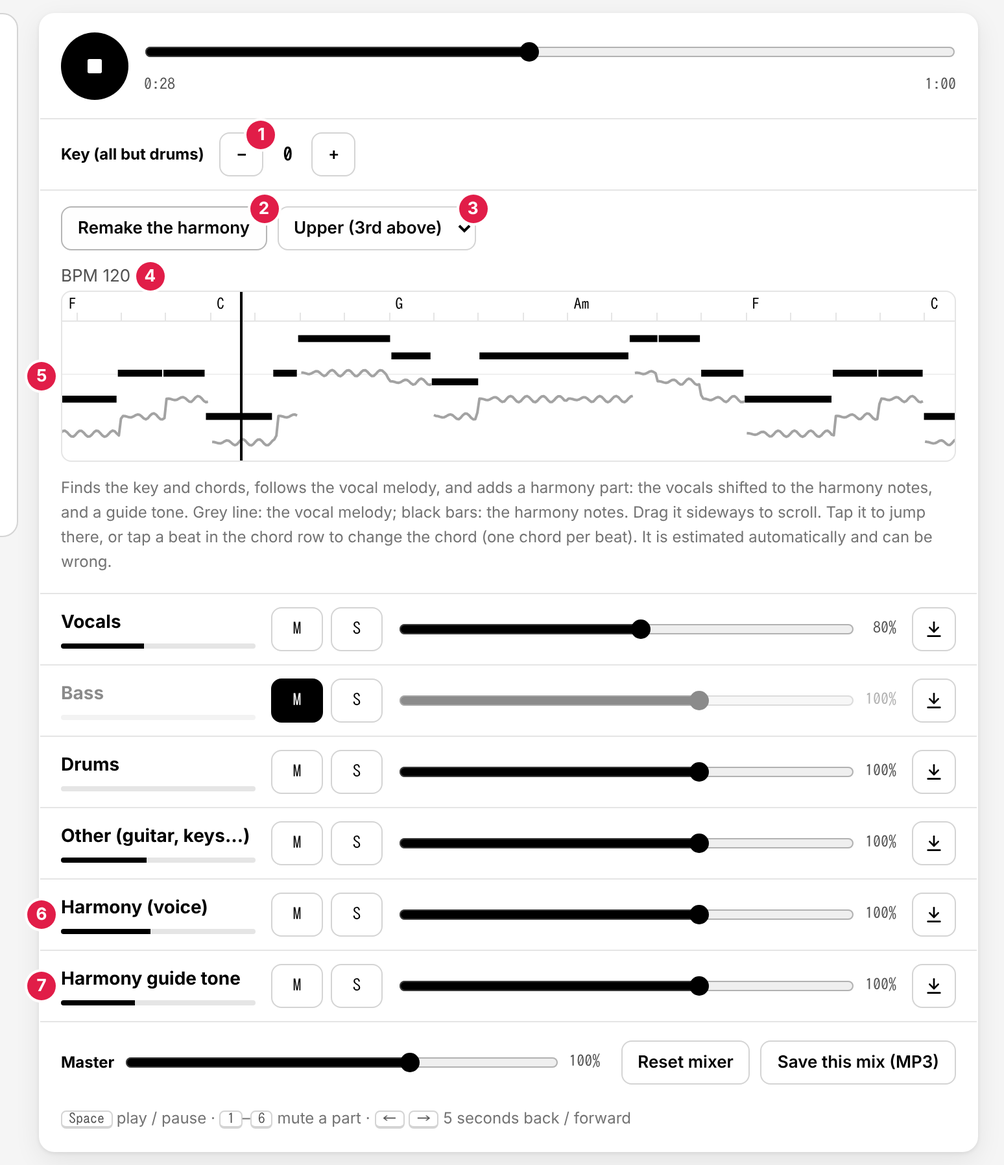
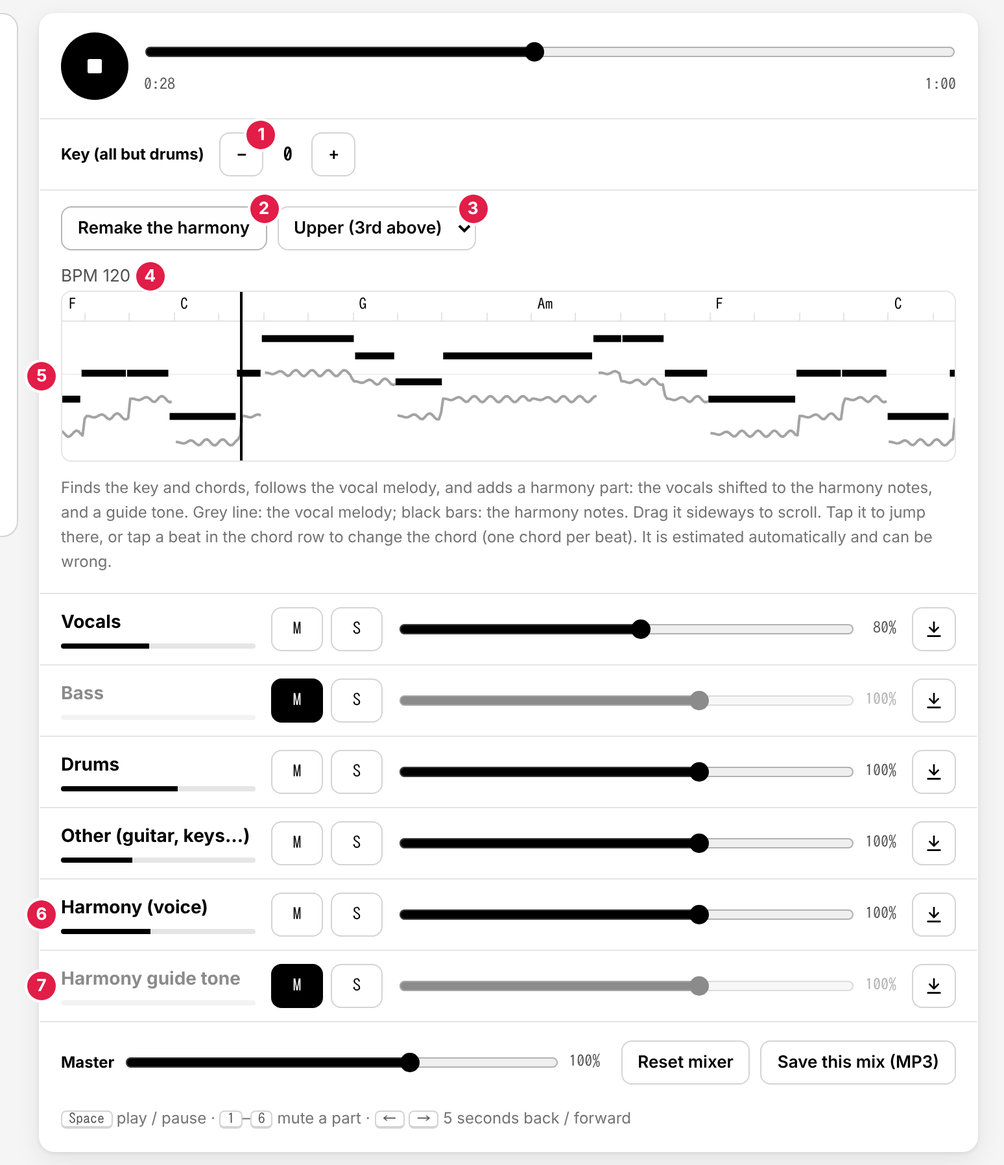
ハモリのガイド音を最初はミュートに、作り直しが必要なときは再生成ボタンを黒に (#9)
* ハモリを作る機能を追加（キー・コード推定、ボーカルの音程とガイド音、ピッチシフトしたハモリの声）

- harmony.js（ワーカー、AI モデル・ライブラリなし）: ベースとその他のクロマから HMM でコードとキー、
  ボーカルを YIN で音程にしてノートに切り、3 度上／下のハモリの音を選ぶ。ガイド音を合成し、
  TD-PSOLA でボーカルの音程を変えたハモリの声を作る
- 画面: 「ハモリを作る」ボタンと上ハモ／下ハモの選択、キー・現在と次のコード、
  コード・旋律・ハモリの音が流れる表示（タップでその位置へ）
- ミキサー: ハモリ（声）とハモリのガイド音を 5・6 本目に追加（再生位置はそのまま）。MP3 保存にも対応
- sw.js・README・CLAUDE.md・アプリ内の使い方を更新し、ガイドの画面写真を撮り直し

Claude-Session: https://claude.ai/code/session_01FBcjAeQ3QT6sh8No2uGm2z

* ハモリを途切れないように：近いノートをフレーズにまとめ、フレーズごとに続けて作る

- 0.3 秒より近いノートは 1 つのフレーズにつなぐ（すき間は真ん中で分ける）。短すぎて落ちたノートや子音・息の穴も埋まる
- ハモリの声：ノートごとのフェードをやめ、フレーズを 1 つの音としてピッチシフト。音程の変化は境目で 40 ms かけて移り、子音とフレーズの前後 60 ms も含める
- ガイド音：フレーズ内は 1 つの発振器でレガート。新しい音の頭だけ少し強くする
- テスト曲に 80 ms の子音を入れた場合、歌っている間に無音になる 10 ms の区間が 121 → 38（残りは入れた子音の中だけ）

Claude-Session: https://claude.ai/code/session_01FBcjAeQ3QT6sh8No2uGm2z

* 5 度のハモリ、キーチェンジ（±12、ドラム以外）、コード編集。ボタン名を「コード推定＆ハモリ生成」に

- ハモリ: 上ハモ／下ハモの 5 度を追加（7 半音、合わないときは 6 / 8）。コードの種類に 7・maj7・m7・dim・sus4 を追加
- キーチェンジ: keyshift.js（新規ワーカー、パートごとに並行）のフェーズボコーダーで、ベース・その他・ボーカルを
  ±12 半音まで変える（テンポはそのまま）。コード名・キー・表示も移し、ハモリの声とガイド音は新しいキーで作り直す。
  キーを変えたパートの MP3 はファイル名にキーを入れる
- コード編集: コード名（表示の上の段か、いま鳴っているコード）をタップして、ルート・種類を変えたり、再生位置で分けたりする。
  「コード推定＆ハモリ生成」は 2 回目から、編集したコードと前回の旋律を使う。「推定したコードに戻す」で元に戻せる
- ボタン名を「コード推定＆ハモリ生成」に。README・CLAUDE.md・アプリ内の使い方を更新し、ガイドの画面写真を撮り直し

Claude-Session: https://claude.ai/code/session_01FBcjAeQ3QT6sh8No2uGm2z

* ハモリを作ったあとはボタンを「ハモリを再生成」に

- 一度ハモリを作るとボタン名が「ハモリを再生成」に変わる（別の曲を分離すると「コード推定＆ハモリ生成」に戻る）
[…]

diff --git a/public/bandstemmixer/ja/harmony/index.html b/public/bandstemmixer/ja/harmony/index.html
@@ -198,7 +198,7 @@
   <li>ボタンの横で<b>パートを選びます</b>。上ハモ（3 度上）・下ハモ（3 度下）・5 度上・5 度下から選べます。</li>
   <li><b>「コード推定＆ハモリ生成」を押します。</b>曲と端末によって、数秒から 1 分ほどかかります。その間も再生は止まりません。</li>
 </ol>
-<p>処理はすべてブラウザの中で行い、AI モデルもダウンロードも使いません。一度作るとボタンは<b>「ハモリを再生成」</b>に変わり、推定したコードと旋律を使い回すので、2 回目からは速く終わります。パートやコードを変えたあとに押してください。</p>
+<p>処理はすべてブラウザの中で行い、AI モデルもダウンロードも使いません。一度作るとボタンは<b>「ハモリを再生成」</b>に変わり、推定したコードと旋律を使い回すので、2 回目からは速く終わります。パートやコードを変えたあとに押してください。作り直しが必要なときは、ボタンが黒くなります。</p>
 
 <h2 id="screen">画面の見方</h2>
 <figure class="shot">
@@ -212,7 +212,7 @@
   <li><b>BPM</b> – 曲から推定したテンポ。コードはこの拍の上で切り替わります。</li>
   <li><b>表示</b> – 上の段にコード名（拍ごとに小さな目盛り）、<b>灰色の線</b>がボーカルの音程、<b>黒い帯</b>がハモリの音、黒い縦線が再生位置です。横にドラッグ（または横スワイプ・Shift＋ホイール）すると前後を見られ、タップするとその位置に移ります。再生を始めると、再生位置に戻ります。</li>
   <li><b>ハモリ（声）</b> – 分離したボーカルを、ハモリの音程に変えたもの。歌い手のビブラートや歌詞が残るので、もう一人が歌っているように聞こえます。</li>
-  <li><b>ハモリのガイド音</b> – 同じ音を、揺れのない単純な音で鳴らします。音程が正確なので、いちばん合わせやすい音です。</li>
+  <li><b>ハモリのガイド音</b> – 同じ音を、揺れのない単純な音で鳴らします。音程が正確なので、いちばん合わせやすい音です。最初はミュートになっているので、聞くときは M を押します。</li>
 </ol>
 <p>増えた 2 つのパートにも、ほかのパートと同じく M・S・フェーダーと、MP3 で保存する ↓ ボタンがあります。</p>
 
@@ -232,7 +232,7 @@
 <h2 id="practice">4 ステップの練習法</h2>
 <ol>
   <li><b>聞く</b> – ガイド音だけをソロ（S）にして、ハモリを何度か聞きます。次にボーカルも S にして、2 つの線の重なり方を聞きます。</li>
-  <li><b>ガイドと一緒に歌う</b> – ボーカルとガイド音を鳴らしたまま、ガイドに合わせてハモリを歌います。ハモリ（声）は、まずはミュート（M）しておきます。</li>
+  <li><b>ガイドと一緒に歌う</b> – ガイド音の M を押してミュートを外し（最初はミュート）、ボーカルとガイド音を鳴らしたまま、ガイドに合わせてハモリを歌います。ハモリ（声）は、まずはミュート（M）しておきます。</li>
   <li><b>助けを減らす</b> – ガイド音を 60%、30% と少しずつ下げ、主旋律に対して自分でハモリを保てるようにします。</li>
   <li><b>一人で歌う</b> – ガイド音とハモリ（声）をミュートし、主旋律とバンドに対してハモリを歌います。確かめたいときは、ハモリ（声）を少しだけ戻します。</li>
 </ol>

diff --git a/public/bandstemmixer/index.html b/public/bandstemmixer/index.html
@@ -529,7 +529,7 @@
           "master": "Master",
           "mix.reset": "Reset mixer",
           "mix.save": "Save this mix (MP3)",
-          "mix.reset.done": "All parts back to 100%, unmuted.",
+          "mix.reset.done": "All parts back to 100%, unmuted (the guide tone muted).",
           "mute": "Mute {name}",
           "solo": "Solo {name}",
           "volume": "{name} volume",
@@ -672,7 +672,7 @@
           "master": "全体",
           "mix.reset": "ミキサーを元に戻す",
           "mix.save": "このミックスを保存（MP3）",
-          "mix.reset.done": "すべてのパートを 100%・ミュートなしに戻しました。",
+          "mix.reset.done": "すべてのパートを 100%・ミュートなし（ガイド音はミュート）に戻しました。",
           "mute": "{name}をミュート",
           "solo": "{name}をソロ",
           "volume": "{name}の音量",
@@ -843,20 +843,23 @@
       // ---------- Saved state ----------
       // Mixer settings only. Solo is not restored (a part left on solo would silence the others without notice).
       const STATE_KEY = "bandstemmixer-state";
+      // The harmony guide tone starts muted (the harmony voice is usually what you want to hear first)
       function freshState() {
         const parts = {};
-        ALL.forEach(function (p) { parts[p.key] = { vol: 1, mute: false }; });
-        return { v: 1, master: 1, parts: parts };
+        ALL.forEach(function (p) { parts[p.key] = { vol: 1, mute: p.key === "guide" }; });
+        return { v: 2, master: 1, parts: parts };
       }
       const clampVol = (v, max) => (typeof v === "number" && isFinite(v) ? Math.max(0, Math.min(max, v)) : 1);
       let store = (function () {
         const s = freshState();
         try {
           const o = JSON.parse(localStorage.getItem(STATE_KEY) || "null");
-          if (o && o.v === 1) {
+          // v1 (before the guide tone started muted): everything but the guide tone carries over
+          if (o && (o.v === 1 || o.v === 2)) {
             s.master = clampVol(o.master, 1.5);
             ALL.forEach(function (p) {
               const x = o.parts && o.parts[p.key];
+              if (o.v === 1 && p.key === "guide") return;
               if (x) s.parts[p.key] = { vol: clampVol(x.vol, 1.5), mute: x.mute === true };
             });
           }
@@ -1722,6 +1725,11 @@
       function renderHarm() {
         // Once made, the button remakes the harmony from the chords on screen (estimated or edited)
         $("harmBtn").textContent = t(harm ? "harm.regen" : "harm.run");
+        // Black (like the other main buttons) when the harmony no longer matches what is on screen: the chords
+        // were edited, or another part (3rd / 5th, above / below) was chosen
+        const set = harmSettings();
+        const regen = !!harm && (harm.stale || set.dir !== harm.dir || set.interval !== harm.interval);
+        $("harmBtn").className = regen ? "primary" : "chip";
         if (!harm) return;
         $("bpmVal").textContent = harm.bpm ? t("harm.bpm", { bpm: Math.round(harm.bpm) }) : t("harm.noBeat");
         $("chordsNote").hidden = !harm.stale && !harm.edited;
@@ -1740,6 +1748,7 @@
       }
       $("keyDown").addEventListener("click", function () { changeKey(semis - 1); });
       $("keyUp").addEventListener("click", function () { changeKey(semis + 1); });
+      $("harmDir").addEventListener("change", renderHarm);
       $("harmBtn").addEventListener("click", function () {
         if (!orig) return;
         wantHarm = true;

diff --git a/public/bandstemmixer/ja/index.html b/public/bandstemmixer/ja/index.html
@@ -525,7 +525,7 @@
           "master": "Master",
           "mix.reset": "Reset mixer",
           "mix.save": "Save this mix (MP3)",
-          "mix.reset.done": "All parts back to 100%, unmuted.",
+          "mix.reset.done": "All parts back to 100%, unmuted (the guide tone muted).",
           "mute": "Mute {name}",
           "solo": "Solo {name}",
           "volume": "{name} volume",
@@ -668,7 +668,7 @@
           "master": "全体",
           "mix.reset": "ミキサーを元に戻す",
           "mix.save": "このミックスを保存（MP3）",
-          "mix.reset.done": "すべてのパートを 100%・ミュートなしに戻しました。",
+          "mix.reset.done": "すべてのパートを 100%・ミュートなし（ガイド音はミュート）に戻しました。",
           "mute": "{name}をミュート",
           "solo": "{name}をソロ",
           "volume": "{name}の音量",
@@ -839,20 +839,23 @@
       // ---------- Saved state ----------
       // Mixer settings only. Solo is not restored (a part left on solo would silence the others without notice).
       const STATE_KEY = "bandstemmixer-state";
+      // The harmony guide tone starts muted (the harmony voice is usually what you want to hear first)
       function freshState() {
         const parts = {};
-        ALL.forEach(function (p) { parts[p.key] = { vol: 1, mute: false }; });
-        return { v: 1, master: 1, parts: parts };
+        ALL.forEach(function (p) { parts[p.key] = { vol: 1, mute: p.key === "guide" }; });
+        return { v: 2, master: 1, parts: parts };
       }
       const clampVol = (v, max) => (typeof v === "number" && isFinite(v) ? Math.max(0, Math.min(max, v)) : 1);
       let store = (function () {
         const s = freshState();
         try {
           const o = JSON.parse(localStorage.getItem(STATE_KEY) || "null");
-          if (o && o.v === 1) {
+          // v1 (before the guide tone started muted): everything but the guide tone carries over
+          if (o && (o.v === 1 || o.v === 2)) {
             s.master = clampVol(o.master, 1.5);
             ALL.forEach(function (p) {
               const x = o.parts && o.parts[p.key];
+              if (o.v === 1 && p.key === "guide") return;
               if (x) s.parts[p.key] = { vol: clampVol(x.vol, 1.5), mute: x.mute === true };
             });
           }
@@ -1718,6 +1721,11 @@
       function renderHarm() {
         // Once made, the button remakes the harmony from the chords on screen (estimated or edited)
         $("harmBtn").textContent = t(harm ? "harm.regen" : "harm.run");
+        // Black (like the other main buttons) when the harmony no longer matches what is on screen: the chords
+        // were edited, or another part (3rd / 5th, above / below) was chosen
+        const set = harmSettings();
+        const regen = !!harm && (harm.stale || set.dir !== harm.dir || set.interval !== harm.interval);
+        $("harmBtn").className = regen ? "primary" : "chip";
         if (!harm) return;
         $("bpmVal").textContent = harm.bpm ? t("harm.bpm", { bpm: Math.round(harm.bpm) }) : t("harm.noBeat");
         $("chordsNote").hidden = !harm.stale && !harm.edited;
@@ -1736,6 +1744,7 @@
       }
       $("keyDown").addEventListener("click", function () { changeKey(semis - 1); });
       $("keyUp").addEventListener("click", function () { changeKey(semis + 1); });
+      $("harmDir").addEventListener("change", renderHarm);
       $("harmBtn").addEventListener("click", function () {
         if (!orig) return;
         wantHarm = true;

diff --git a/public/bandstemmixer/harmony/index.html b/public/bandstemmixer/harmony/index.html
@@ -198,7 +198,7 @@
   <li><b>Choose the part</b> next to the button: upper (a 3rd above), lower (a 3rd below), or a 5th above or below.</li>
   <li><b>Press “Find chords &amp; make harmony”.</b> It takes from a few seconds to about a minute, depending on the song and the device. Playback goes on while it works.</li>
 </ol>
-<p>Everything is worked out in your browser, without the AI model or any download. After the first time the button becomes <b>“Remake the harmony”</b>: it reuses the chords and the melody it already found, so it is quicker. Use it after you change the part or the chords.</p>
+<p>Everything is worked out in your browser, without the AI model or any download. After the first time the button becomes <b>“Remake the harmony”</b>: it reuses the chords and the melody it already found, so it is quicker. Use it after you change the part or the chords: the button turns black when the harmony no longer matches them.</p>
 
 <h2 id="screen">Reading the screen</h2>
 <figure class="shot">
@@ -212,7 +212,7 @@
   <li><b>BPM</b> – The tempo found in the song. The chords change on its beats.</li>
   <li><b>The roll</b> – The chord names on top, with a small tick at every beat; the vocal melody as a <b>grey line</b>; the harmony notes as <b>black bars</b>; the black vertical line is the play position. Drag it sideways (or use a sideways swipe or Shift + wheel) to look ahead or back; tap it to jump there. It follows the playback again when you press play.</li>
   <li><b>Harmony (voice)</b> – The separated vocals moved to the harmony notes. It keeps the singer's vibrato and words, so it sounds like a second singer.</li>
-  <li><b>Harmony guide tone</b> – The same notes as a plain, steady tone. The pitch is exact, which makes it the easiest to sing along to.</li>
+  <li><b>Harmony guide tone</b> – The same notes as a plain, steady tone. The pitch is exact, which makes it the easiest to sing along to. It starts muted; press its M to hear it.</li>
 </ol>
 <p>Both new parts have M, S, a fader, and the ↓ button to save them as MP3 files, like the other parts.</p>
 
@@ -232,7 +232,7 @@
 <h2 id="practice">A practice plan in four steps</h2>
 <ol>
   <li><b>Listen.</b> Solo the guide tone (S) and listen to the harmony on its own a few times. Then add the vocals (S on both) to hear how the two lines fit.</li>
-  <li><b>Sing with the guide.</b> Keep the vocals and the guide tone on, and sing the harmony along with the guide. Turn the harmony voice off (M) for now.</li>
+  <li><b>Sing with the guide.</b> Turn the guide tone on (its M; it starts muted) and keep the vocals on, and sing the harmony along with the guide. Turn the harmony voice off (M) for now.</li>
   <li><b>Lower the help.</b> Turn the guide tone down step by step — 60%, 30% — until you are carrying the harmony yourself against the lead vocal.</li>
   <li><b>Sing it alone.</b> Mute the guide tone and the harmony voice and sing the harmony against the lead and the band. To check yourself, unmute the harmony voice for a moment.</li>
 </ol>

diff --git a/public/bandstemmixer/ja/guide/index.html b/public/bandstemmixer/ja/guide/index.html
@@ -243,7 +243,7 @@
   <li><b>フェーダー</b> – パートの音量（0〜150%）。</li>
   <li><b>↓（パートを保存）</b> – そのパートだけを MP3 ファイルで保存します。</li>
   <li><b>全体</b> – ミックス全体の音量。</li>
-  <li><b>ミキサーを元に戻す</b> – すべてのパートを 100%・ミュートなしに戻します。</li>
+  <li><b>ミキサーを元に戻す</b> – すべてのパートを 100%・ミュートなしに戻します（ハモリのガイド音はミュートに戻します）。</li>
   <li><b>このミックスを保存（MP3）</b> – いま聞こえている音を 1 つの MP3 ファイルで保存します。</li>
 </ol>
 <p>フェーダー・M・全体の音量は次回も残ります。S は残らないので、うっかりソロのまま始まることはありません。</p>
@@ -262,7 +262,7 @@
   <li><b>BPM</b> – 曲から推定したテンポ。</li>
   <li><b>表示</b> – 上の段にコード名（拍をタップするとコードを変えられます）、灰色の線がボーカルの音程、黒い帯がハモリの音。横にドラッグすると先を見られ、タップするとその位置に移ります。</li>
   <li><b>ハモリ（声）</b> – ボーカルをハモリの音程に変えたもの。</li>
-  <li><b>ハモリのガイド音</b> – 同じ音を単純な音で鳴らしたもの。</li>
+  <li><b>ハモリのガイド音</b> – 同じ音を単純な音で鳴らしたもの。最初はミュートなので、聞くときは M を押します。</li>
 </ol>
 <p>これらはすべて、AI モデルを使わずにブラウザの中で処理します。詳しくは<a href="../harmony/">ハモリの練習</a>と<a href="../chords-and-key/">コード表示とキー変更</a>をご覧ください。</p>
 

diff --git a/public/bandstemmixer/guide/index.html b/public/bandstemmixer/guide/index.html
@@ -243,7 +243,7 @@
   <li><b>Fader</b> – The volume of the part, from 0% to 150%.</li>
   <li><b>↓ (save the part)</b> – Saves that part alone as an MP3 file.</li>
   <li><b>Master</b> – The volume of the whole mix.</li>
-  <li><b>Reset mixer</b> – Puts every part back to 100% and unmuted.</li>
+  <li><b>Reset mixer</b> – Puts every part back to 100% and unmuted (the harmony guide tone back to muted).</li>
   <li><b>Save this mix (MP3)</b> – Saves what you hear now as one MP3 file.</li>
 </ol>
 <p>The faders, M, and the master volume are remembered for next time; S is not, so you never start in solo by mistake.</p>
@@ -262,7 +262,7 @@
   <li><b>BPM</b> – the tempo found in the song.</li>
   <li><b>The view</b> – chord names on top (tap a beat there to change the chord), the vocal melody as a grey line, and the harmony notes as black bars. Drag it sideways to look ahead; tap it to jump there.</li>
   <li><b>Harmony (voice)</b> – the vocals moved to the harmony notes.</li>
-  <li><b>Harmony guide tone</b> – the same notes as a plain tone.</li>
+  <li><b>Harmony guide tone</b> – the same notes as a plain tone. It starts muted; press its M to hear it.</li>
 </ol>
 <p>All of this runs in your browser without the AI model. For more, see <a href="../harmony/">practicing harmonies</a> and <a href="../chords-and-key/">chords and key change</a>.</p>
 

diff --git a/CLAUDE.md b/CLAUDE.md
@@ -28,9 +28,9 @@
 - 大きなダウンロードの前の確認（Wi-Fi でないときのダイアログ）は `index.html` の `connectionRisk()`・`askNetwork()`。モデルがキャッシュ済みなら出さない。ダウンロード量の表示は `MODEL_MB`・`ENGINE_MB`。
 - ページはクロスオリジン分離（`public/_headers` の COOP / COEP require-corp）。ONNX Runtime の複数スレッドと、分離結果を `SharedArrayBuffer` でプレーヤーと共有するのに必要。外部から読むファイルは CORS で読む（`<script type="module">`・`fetch`・`import()`）。CORS でない読み込み（`<img>` の外部画像など）を足すと COEP でブロックされる。
 - 外部ホストを足したら `public/_headers` の CSP と、プライバシーの説明（`scripts/pages/privacy.mjs`、アプリ内の `privacy.body`、README）を同じ PR で直す。
-- ハモリは `harmony.js`（ワーカー）。AI モデルもライブラリも使わない自前の JavaScript：まず 4 パートの和（曲全体）から拍とテンポ（`detectBeats()`。Loop Trainer（ktkwmr/LoopTrainer、MIT、同じ作者）の `detectBeats()` から小節の頭の推定を除いて移したもの。`BEAT_BIAS` も同じ値）を出し、拍ごとのマス（`makeGrid()`、4 分音符。拍が見つからないときは 0.5 秒ごと）を作る。「ベース」「その他」のクロマ（12 音の強さ）をマスごとに足して長三和音・短三和音と照合し、拍ごとに HMM（Viterbi）でならしてコード、Krumhansl のプロファイルと主和音の長さでキー、ボーカルを YIN で音程にしてノートに切り、各ノートにキーの中の 3 度か 5 度上（下）を、コードとぶつかるときはコードの音に寄せて選ぶ（コードの種類は `CHORD_TYPES`。推定はメジャー・マイナーだけ、7th・add9・dim7・m7b5・aug などは編集で付く）。ページはコードを拍ごとのマス（`harm.cells`、`harm.grid`）で持ち、編集はマス単位（その拍から何拍分か）。ノーコードは空白で表示する。キーは曲全体で 1 つ（転調には対応しない）なので画面には出さず、ハモリの音選びにだけ使う。表示は BPM・コード（上の段の名前と拍の目盛り）・旋律・ハモリの音だけ（いま・次のコードの表示、コードの境目の縦線はなし）。ピアノロールは横ドラッグ・横ホイールでスクロールでき（`viewStart`）、再生開始・シークで再生位置に戻る。一度作るとボタンは「ハモリを再生成」（`harm.regen`）になり、ページが持っているコード（編集したもの）と旋律を渡して使い回す（コードの推定と音程の追跡をやり直さない）。コードを編集しても自動では作り直さず、案内（`chords.stale`）を出す。0.3 秒より近いノートは 1 つのフレーズにつなぎ（すき間は真ん中で分ける）、フレーズごとに途切れない音として作る（音程の変化はノートの境目で 40 ms かけて移る）。ハモリの声は TD-PSOLA でボーカルの音程を変えたもの（フレーズの前後 60 ms と、フレーズ内の子音・息も含める）、ガイド音は単純な合成音（フレーズ内はレガート）。どちらもモノラル（L と R に同じ配列）で、ミキサーの 5・6 本目（`HARM`）に足す。分析は 11025 Hz（4 分の 1 に間引き）。作り直し・分離し直しで置き換え、保存はしない。
+- ハモリは `harmony.js`（ワーカー）。AI モデルもライブラリも使わない自前の JavaScript：まず 4 パートの和（曲全体）から拍とテンポ（`detectBeats()`。Loop Trainer（ktkwmr/LoopTrainer、MIT、同じ作者）の `detectBeats()` から小節の頭の推定を除いて移したもの。`BEAT_BIAS` も同じ値）を出し、拍ごとのマス（`makeGrid()`、4 分音符。拍が見つからないときは 0.5 秒ごと）を作る。「ベース」「その他」のクロマ（12 音の強さ）をマスごとに足して長三和音・短三和音と照合し、拍ごとに HMM（Viterbi）でならしてコード、Krumhansl のプロファイルと主和音の長さでキー、ボーカルを YIN で音程にしてノートに切り、各ノートにキーの中の 3 度か 5 度上（下）を、コードとぶつかるときはコードの音に寄せて選ぶ（コードの種類は `CHORD_TYPES`。推定はメジャー・マイナーだけ、7th・add9・dim7・m7b5・aug などは編集で付く）。ページはコードを拍ごとのマス（`harm.cells`、`harm.grid`）で持ち、編集はマス単位（その拍から何拍分か）。ノーコードは空白で表示する。キーは曲全体で 1 つ（転調には対応しない）なので画面には出さず、ハモリの音選びにだけ使う。表示は BPM・コード（上の段の名前と拍の目盛り）・旋律・ハモリの音だけ（いま・次のコードの表示、コードの境目の縦線はなし）。ピアノロールは横ドラッグ・横ホイールでスクロールでき（`viewStart`）、再生開始・シークで再生位置に戻る。一度作るとボタンは「ハモリを再生成」（`harm.regen`）になり、ページが持っているコード（編集したもの）と旋律を渡して使い回す（コードの推定と音程の追跡をやり直さない）。コードを編集しても自動では作り直さず、案内（`chords.stale`）を出す。コードを編集したときと、作ったあとでパート（3 度・5 度、上・下）を変えたときは、ボタンを黒（`primary`）にする（`renderHarm()`）。0.3 秒より近いノートは 1 つのフレーズにつなぎ（すき間は真ん中で分ける）、フレーズごとに途切れない音として作る（音程の変化はノートの境目で 40 ms かけて移る）。ハモリの声は TD-PSOLA でボーカルの音程を変えたもの（フレーズの前後 60 ms と、フレーズ内の子音・息も含める）、ガイド音は単純な合成音（フレーズ内はレガート）。どちらもモノラル（L と R に同じ配列）で、ミキサーの 5・6 本目（`HARM`）に足す。分析は 11025 Hz（4 分の 1 に間引き）。作り直し・分離し直しで置き換え、保存はしない。
 - キーチェンジは `keyshift.js`（ワーカー、パートごとに 1 つ並行）。フェーズボコーダー（ピークの位相固定）で時間を伸ばしてから元の長さに戻す。ベースは FFT 4096、ほかは 2048。ドラムは変えない。ページは分離したままのパート（`orig`）と、ハモリ・コードを原曲のキーで持ち、キーの変化（`semis`）は音・コード名・表示にだけかける。ハモリの声とガイド音は、キーを変えるたびに `harmony.js` で作り直す（ハモリの音程 + キーの変化を一度にずらす）。`keyshift.js` を変えたら、テスト曲を ±n 半音ずらして、コード推定と旋律がちょうど n ずれ、音量が変わらないことを確かめる。`harmony.js` を変えたら、`scripts/guide-song.mjs` の曲で、コード（Am F C G）・旋律・ハモリの声の音程が合うことを確かめる。
-- ミキサーの設定は `localStorage` の `bandstemmixer-state`（各パートの音量・ミュート（ハモリの 2 本も）、全体の音量）。分離の設定は端末ごとに順に試す（`index.html` の `MODES`・`LADDER`）。PC は full（WebGPU があれば GPU、CPU は多スレッド）→ cpu。スマホとメモリ 4 GB 以下の端末は gpu（GPU・メモリ節約）→ cpu（2 スレッド）→ cpu1（1 スレッド）。iPhone の Safari では GPU の作業メモリはタブではなく GPU プロセスが持つので、タブの上限（htdemucs は 1 区間で約 1 GB 使う）に触れにくい。エラーなら同じ分離の中で次の設定に移り、タブごと落ちたら（`bandstemmixer-running` の記録が残る）次に開いたときに `bandstemmixer-crashed` に覚えて、その設定を 30 日飛ばす。ソロは保存しない。分離したパートは保存しない。
+- ミキサーの設定は `localStorage` の `bandstemmixer-state`（各パートの音量・ミュート（ハモリの 2 本も）、全体の音量。`v: 2`。ハモリのガイド音は最初ミュート（`freshState()`）。`v: 1` の保存はガイド音以外を引き継ぐ）。分離の設定は端末ごとに順に試す（`index.html` の `MODES`・`LADDER`）。PC は full（WebGPU があれば GPU、CPU は多スレッド）→ cpu。スマホとメモリ 4 GB 以下の端末は gpu（GPU・メモリ節約）→ cpu（2 スレッド）→ cpu1（1 スレッド）。iPhone の Safari では GPU の作業メモリはタブではなく GPU プロセスが持つので、タブの上限（htdemucs は 1 区間で約 1 GB 使う）に触れにくい。エラーなら同じ分離の中で次の設定に移り、タブごと落ちたら（`bandstemmixer-running` の記録が残る）次に開いたときに `bandstemmixer-crashed` に覚えて、その設定を 30 日飛ばす。ソロは保存しない。分離したパートは保存しない。
 - 記事は `scripts/pages/<slug>.mjs`（`guide`・`minus-one`・`learn-by-ear`・`harmony`・`chords-and-key`・`how-it-works`・`better-results`・`faq`）。画面写真は `scripts/pages/shots.mjs` の `img()` で入れる。アプリと共通の値（モデルの大きさ・曲の長さの上限・フェーダーの上限・MP3 のビットレート・区間の長さ）は書き写さず、`scripts/pages/app.mjs` がアプリのファイルから読む（見つからなければビルドが止まる）。記事を足したら `build-pages.mjs` の `PAGES` と、`index.html` の `intro.body` のガイド一覧（英日）にも足す。見た目を変えたら `node scripts/render-guide-images.mjs` で画面写真を撮り直す（架空の曲 `scripts/guide-song.mjs` を使い、`separator.js` を仮の処理に差し替えるので AI モデルは不要。日本語のファイル名はパスではなく buffer で渡す）。
 - トップページ（https://ktkwmr.com/）のアプリ一覧に載せたら、アプリ名・説明・アイコン・記事を変えたときに `ktkwmr/ktkwmr.com` の `scripts/pages/home.mjs` を直す PR を別に出す（ベースライン §2-16）。
 - 記事を追加・変更したら、PR のプレビューで人間が内容を確認してからマージする（ベースライン §10-7）。確認してほしい点を `docs/article-review.md` に書き、PR 本文にも載せる。記事は広告なし（重みのライセンスのため。記事だけに広告を付けるのも不可）。

diff --git a/docs/article-review.md b/docs/article-review.md
@@ -58,6 +58,8 @@ PR を出すと Cloudflare のプレビュー URL ができるので、そこで
 | O | how-it-works | 拍（自己相関・動的計画法、Ellis 2007）、コード（クロマ・HMM）、旋律（YIN）、ハモリ（TD-PSOLA）、キー（フェーズボコーダー）の説明が、専門的すぎず、言い過ぎでないか |
 | P | chords-and-key・learn-by-ear | Loop Trainer（/looptrainer/）へのリンク。プレビューでは別の Worker なので開けない（本番では開ける） |
 | Q | privacy | 改定の書き方（「制定日 … （改定：…）」）でよいか。外部への送信は増えていない（解析はすべてブラウザの中） |
+| R | guide・harmony | ハモリのガイド音は最初ミュート（2026-10-31 追加）。練習法の 2 番目で M を外す手順を足した。読みにくくないか |
+| S | harmony | 「作り直しが必要なときは、ボタンが黒くなります」（コードの編集・パートの変更のとき）を追記 |
 
 ## 確認が終わったら
 
